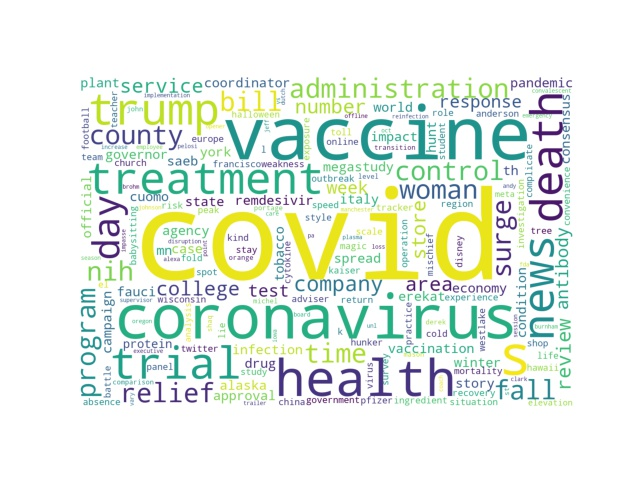
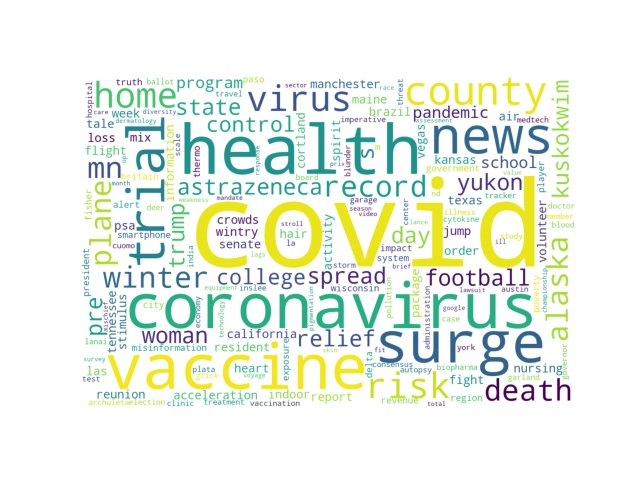
feature(refactoring): views, helper

diff --git a/Covid_web/views/views.py b/Covid_web/views/views.py
@@ -1,0 +1,64 @@
+from django.shortcuts import render, redirect, get_object_or_404, HttpResponseRedirect
+from django.urls import reverse_lazy
+from Covid_web.models import Question, Answer
+from Covid_web.forms import AnswerForm
+
+
+def index(request):
+	return render(request, 'Covid_web/index.html')
+
+
+def QnA(request):
+	questions = Question.objects
+	return render(request, 'Covid_web/QnA.html', {'object': Question, 'questions': questions})
+
+
+def ques(request, question_id):
+	question = get_object_or_404(Question, pk=question_id)
+	answers = question.answers.all()
+	return render(request, 'Covid_web/Question.html', {'object': Question, 'question': question, 'answers': answers})
+
+
+def new(request):
+	return render(request, 'Covid_web/new.html')
+
+
+def create(request):
+	if (request.method == 'POST'):
+		post = Question()
+		post.question_text = request.POST['question_text']
+		post.save()
+	return redirect('covid:QnA')
+
+
+def answer(request, question_id):
+	if (request.method == "POST"):
+		answer_form = AnswerForm(request.POST)
+		answer_form.instance.question_id = question_id
+		if answer_form.is_valid():
+			answer = answer_form.save()
+	return HttpResponseRedirect(reverse_lazy('covid:ques', args=[question_id]))
+
+
+def News(request):
+	global article
+	context = article
+	return render(request, 'Covid_web/News.html', context)
+
+
+def Precautions(request):
+	global pre, Korea, World
+	context = {
+		"pre": pre,
+		'Korea': Korea,
+		'World': World,
+	}
+	return render(request, 'Covid_web/Precautions.html', context)
+
+
+def basic_information(request):
+	global cont
+	context = {
+		'cont': cont[1:-21]
+	}
+	return render(request, 'Covid_web/basic_information.html', context)

diff --git a/Covid_web/views/make_view.py b/Covid_web/views/make_view.py
@@ -1,0 +1,29 @@
+from ..helper.get_info import basic,precaution, Covid_confirmed, Make_Cloud
+import threading
+import pandas as pd
+
+flag = True
+article = {}
+cont = []
+pre = []
+Korea = {}
+World = {}
+
+
+def make():
+    global flag, cont, article, pre, Korea, World
+    timer = threading.Timer(600,make)
+
+    if flag:
+        Make_Cloud('covid_WordCloud.jpg')
+        flag = False
+    else:
+        Make_Cloud('covid_WordCloud1.jpg')
+        flag = True
+    article_pd = pd.read_csv('article.csv')
+    article = article_pd.to_dict()
+    cont = basic()
+    pre = precaution()
+    Korea, World = Covid_confirmed()
+    timer.start()
+# make()

diff --git a/Covid_web/views/__init__.py b/Covid_web/views/__init__.py
@@ -1,0 +1,3 @@
+
+from .make_view import make
+from .views import *
